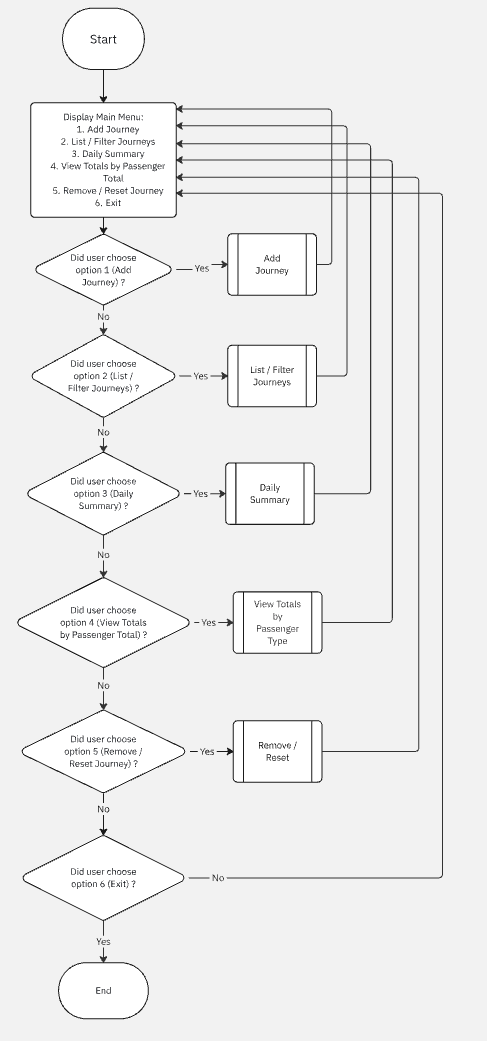
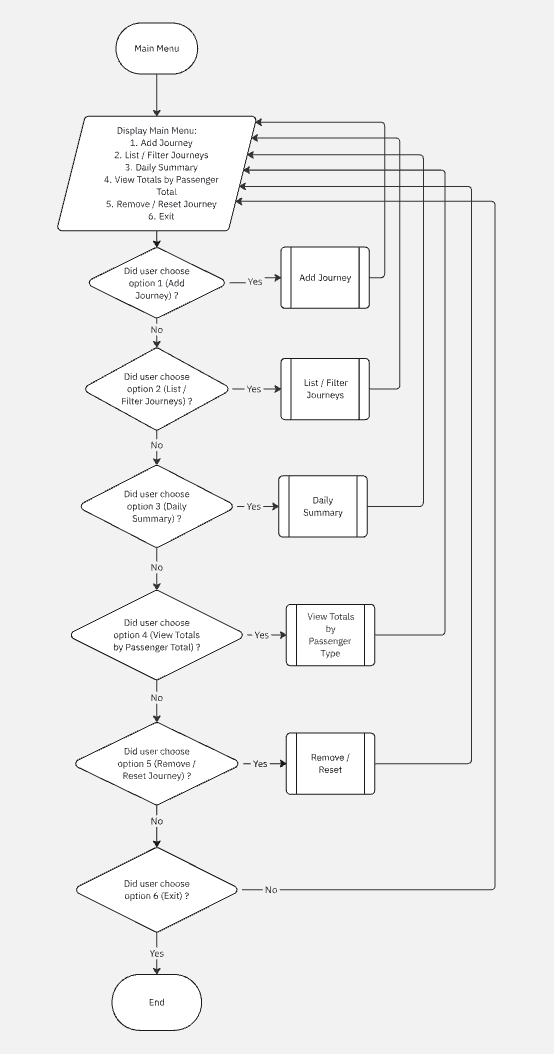
Finished Milestone 1 Part 2 Research Section.

diff --git a/4113 Part 2 - Milestone 1.md b/4113 Part 2 - Milestone 1.md
@@ -1,0 +1,228 @@
+# IY4113 Part 2 - Milestone 1
+
+| Assessment Details | Please Complete All Details                                           |
+| ------------------ | --------------------------------------------------------------------- |
+| Group              | A                                                                     |
+| Module Title       | IY4113 Applied Software Engineering using Object-Oriented Programming |
+| Assessment Type    | Java Fundamentals Milestone 1 - Part 2                                |
+| Module Tutor Name  | Jonathan Shore                                                        |
+| Student ID Number  | P466146                                                               |
+| Date of Submission | 14/06/2026                                                            |
+| Word Count         |                                                                       |
+| GItHub Link        | https://github.com/firasallawati/T0466146_Firas_4113                  |
+
+- [x] *I confirm that this assignment is my own work. Where I have referred to academic sources, I have provided in-text citations and included the sources in  
+    the final reference list.*
+
+- [x] Where I have used AI, I have cited and referenced appropriately.
+
+### Purpose of the Program
+
+The purpose of the program is to extend the Part 1 **CityRide Lite** system into a more advanced public transport fare companion application. While Part 1 focused on entering journeys, calculating fares, and managing them during a single run of the program, Part 2 develops this further by adding user profiles, persistent file storage, journey editing, import/export features, and an administrator role. The completed program should allow a rider to manage journeys across multiple sessions using saved profile and journey data, while also allowing an admin user to manage fare-related system settings such as base fares, discounts, caps, and peak windows.
+
+## Core program functionality
+
+### Rider features
+
+- Create, load, and save a rider profile containing name, passenger type, and default payment option.
+
+- Allow multiple rider profiles to be created and loaded, so each rider can log in and access their own saved profile information and journey history.
+
+- Save and load rider profile data using JSON files.
+
+- Add journeys by entering details such as date / time, starting zone, destination zone, time band, and passenger type.
+
+- Edit and delete journeys for the active day, with totals recalculated after changes.
+
+- Read journey records from a CSV file into the application, and also save the journeys currently in the app out to a CSV file.
+
+- View costs per journey, running totals, and whether a cap or travel pass has been applied.
+
+- Generate an end of day summary showing total journeys, total cost, average cost, most expensive journey, cap savings, and category counts.
+
+- Export reports as both a CSV report and a human-readable text summary.
+
+### Fare calculation features
+
+- Calculate the number of zones crossed and use this with the time band to determine the base fare.
+
+- Apply passenger discounts and daily caps, ensuring the total daily fare does not exceed the cap.
+
+### Admin features
+
+- Support a separate Admin role alongside the Rider role.
+
+- Provide a password protected admin log in menu.
+
+- Allow admins to view the active configuration.
+
+- Allow admins to add, update, and delete base fares, passenger discounts, daily caps, and peak time windows.
+
+- Validate admin changes before saving.
+
+### File handling and startup features
+
+- Load configuration information from the config file on program start up.
+
+- Use default values if no configuration file exists.
+
+- Use JSON for storing configuration and profiles and CSV for journeys and reporting.
+
+- When exitting, offer to save the rider’s current day state, including profile and journeys.
+
+## System constraints (limitations / rules)
+
+- The system must implement the journey and fare calculation of part 1 without completely replacing it.
+
+- The system will continue to have a menu-driven system with a console interface, text prompts and keyboard input.
+
+- Only two possible users can be created: Rider and Admin.
+
+- All journeys and riders' profiles will be saved in JSON format, while the journeys import/export and reports must be in CSV files.
+
+- If configuration data cannot be loaded, the program must fall back to safe default values instead of failing.
+
+- The system must respect the supplied zones, passenger types, discounts, caps, and fares rules.
+
+- All invalid IDs, invalid file data, and invalid administration configuration values should generate an error message, and invalid data must not be saved.
+
+- All prompts should include the expected format and example values to help the user enter data correctly.
+
+---
+
+### Input Process Output Table
+
+---
+
+| Feature / Task                | Inputs                                                   | Processing (what the system does)                                                    | Outputs                                  |
+| ----------------------------- | -------------------------------------------------------- | ------------------------------------------------------------------------------------ | ---------------------------------------- |
+| Load config data              | Config file                                              | Read configuration file on startup and load fares, discounts, caps, and peak windows | Config data loaded or safe defaults used |
+| Create rider profile          | Name, passenger type, default payment option             | Validate input and create new rider profile                                          | Rider profile created                    |
+| Load rider profile            | Profile file / profile selection                         | Read saved JSON profile data and load rider details and saved journeys               | Rider profile loaded                     |
+| Save rider profile            | Current rider profile data                               | Write rider profile and journey data to JSON file                                    | Profile saved successfully               |
+| Log into rider profile        | Selected profile                                         | Open the chosen rider account and load saved data                                    | Rider account opened                     |
+| Add journey                   | Date/time, from zone, to zone, time band, passenger type | Capture journey details                                                              | Journey details entered                  |
+| Validate journey input        | Entered journey details                                  | Check values are valid and ask user to input a valid input and try again if needed   | Accepted input or error message          |
+| Calculate zones crossed       | From zone to zone                                        | Calculate zones crossed using set formula                                            | Zones crossed value                      |
+| Look up base fare             | Zones crossed, time band                                 | Read fare dataset and select base fare                                               | Base fare value                          |
+| Apply passenger discount      | Base fare, passenger type                                | Apply correct passenger discount                                                     | Discounted fare value                    |
+| Apply daily cap               | Running total, discounted fare                           | Check cap and adjust charged fare                                                    | Final charged fare                       |
+| Assign journey ID             | New journey                                              | Generate unique ID for entered journey                                               | Unique journey ID                        |
+| Edit journey                  | Journey ID, updated values                               | Find journey, validate new values, recalculate fare and totals                       | Journey updated                          |
+| Delete journey                | Journey ID                                               | Find journey by ID, remove it, and recalculate totals                                | Journey removed or error shown           |
+| List journeys                 | User selects list option                                 | Display all journeys in order entered                                                | Journey list shown                       |
+| Import journeys from CSV      | CSV file                                                 | Read CSV file, validate each row, and convert rows into journey records              | Imported journeys shown / errors shown   |
+| Export journeys to CSV        | Current journey list                                     | Write current journey records to CSV file                                            | CSV journey file created                 |
+| View journey costs and totals | Current journey list                                     | Calculate per-journey cost, running total, and whether cap/pass applied              | Journey costs and totals displayed       |
+| View daily summary            | User selects summary option                              | Calculate totals, average cost, highest fare, savings, and counts                    | Summary displayed                        |
+| Export end-of-day report      | Current summary data                                     | Save report as CSV and text file                                                     | Report files created                     |
+| Admin login                   | Password                                                 | Check password and allow or deny access                                              | Admin menu shown or access denied        |
+| View config                   | User selects config option                               | Display current fares, discounts, caps, and peak windows                             | Current config shown                     |
+| Update config                 | New fare / discount / cap / peak window values           | Validate and save updated configuration values                                       | Config updated or error shown            |
+| Reset day                     | Confirmation                                             | Clear all journeys for active rider and reset session totals                         | All journeys removed                     |
+| Exit program                  | Exit choice                                              | End loop, offer save if needed, and close program                                    | Goodbye / save confirmation shown        |
+
+---
+
+### Gantt Chart
+
+---
+
+[Insert Gantt Chart]
+
+---
+
+### Algorithm Design
+
+---
+
+**Flowchart:**
+
+<img src="Flow6.PNG" title="" alt="" width="342">
+
+<img src="Flow7.PNG" title="" alt="" width="387">
+
+![](Flow8.PNG)
+
+<img title="" src="Flow.PNG" alt="" width="427">
+
+<img src="Flow1.PNG" title="" alt="" width="266">
+
+<img src="Flow2.PNG" title="" alt="" width="242">
+
+<img src="Flow3.PNG" title="" alt="" width="372">
+
+<img src="Flow4.PNG" title="" alt="" width="186">
+
+<img title="" src="Flow5.PNG" alt="" width="266">
+
+---
+
+### Research
+
+---
+
+## Example 1:
+
+**Name of program:** Inventory Management System  
+**Reference (link):** [gaut2172/InventoryManagementSys](https://github.com/gaut2172/InventoryManagementSys "https://github.com/gaut2172/inventorymanagementsys")
+
+**What it does well (2–3 features that work effectively):**
+
+1. The application presents the stored information in a clear and readable way, which is one of its strongest features because it helps the user view inventory records, customer invoices, and categories more easily and makes it the whole app more readable and interacting.
+2. It includes a secure login system and role based access control, which is very useful because different users can be given different permissions within the system to allow the user and administrator role to be implemented within the application.
+3. It uses a structured design with separate models, views, and controllers, which helps keep the application organised and makes the interface easier to follow overall improving how the app looks and feels when used.
+
+**Key design ideas you could reuse (e.g., layout, navigation, input/output, program structure):**
+
+1. Present saved or loaded records in a neat table or structured layout so the user can read the information quickly and clearly.
+2. Use separate access levels so different users only see the features they are allowed to use, like the separation between Rider and Admin profiles in the CityRide Lite program.
+3. Keep the program organised by separating data handling, interface logic, and displayed output, so the system is easier to design and maintain.
+4. Reuse the idea of showing stored file data in a consistent and readable format after it has been loaded.
+
+**Screenshot (showing the interface/output):**
+
+![](Products_Example.jpg)
+
+The image of the application here shows how the stored data is presented in a neat and easy to read table which enhances the readability for the user.
+
+---
+
+## Example 2:
+
+**Name of program:** Hotel Reservation System  
+**Reference (link):** [SameetAsadullah/Hotel-Reservation-System](https://github.com/SameetAsadullah/Hotel-Reservation-System "https://github.com/sameetasadullah/hotel-reservation-system")
+
+**What it does well (2–3 features that work effectively):**
+
+1. It uses a clear role based system by separating the application into four different user types: Administrator, Receptionist, Vendor, and Customer. This works well because each user only gets access to the features that match their role.
+2. It includes login and sign up features for users such as for customers and vendors, which is useful because it shows how a profile style access system can be applied and managed in an application.
+3. It gives the Admin control over viewing, editing, and deleting different user records, which shows how permissions can be handled for different profiles in the system.
+
+**Key design ideas you could reuse (e.g., layout, navigation, input/output, program structure):**
+
+1. Use separate roles in the program so different users only see the options and features relevant to them which are the Admin and Rider profiles.
+
+2. Use a shared base user structure and extend it for different roles using inheritance in order to compress the code and avoid repeating the same code which takes up unnecessary memory in the program.
+
+3. Give the admin role extra permissions for managing other user data, while keeping normal user features more limited
+
+4. Reuse the idea of role based navigation so that the flow of the program changes depending on which type of user is active.
+
+**Screenshot (showing the interface/output):**
+
+![](Login_Example1.png)
+
+This screenshot shows the start of application menu that allows the user to select a profile page in order to login to which is important as it’s not complicated as it is presented in a clear way to the user when choosing.
+
+![](Login_Example2.png)
+
+In this screenshot of the application, after selecting the desired profile the user is presented with a sign in screen to input his login details, and if the user doesn’t have a login, he is also given the option to register a new account. The user is not given this option for most of the other profiles as for example the login details for the administrator should already be imbedded within the code as only people who have administrative access can login to the administrator role which is very important as it displays the safety, security and logic of the profile system.
+
+---
+
+### Diary Entries
+
+---
+
+---
